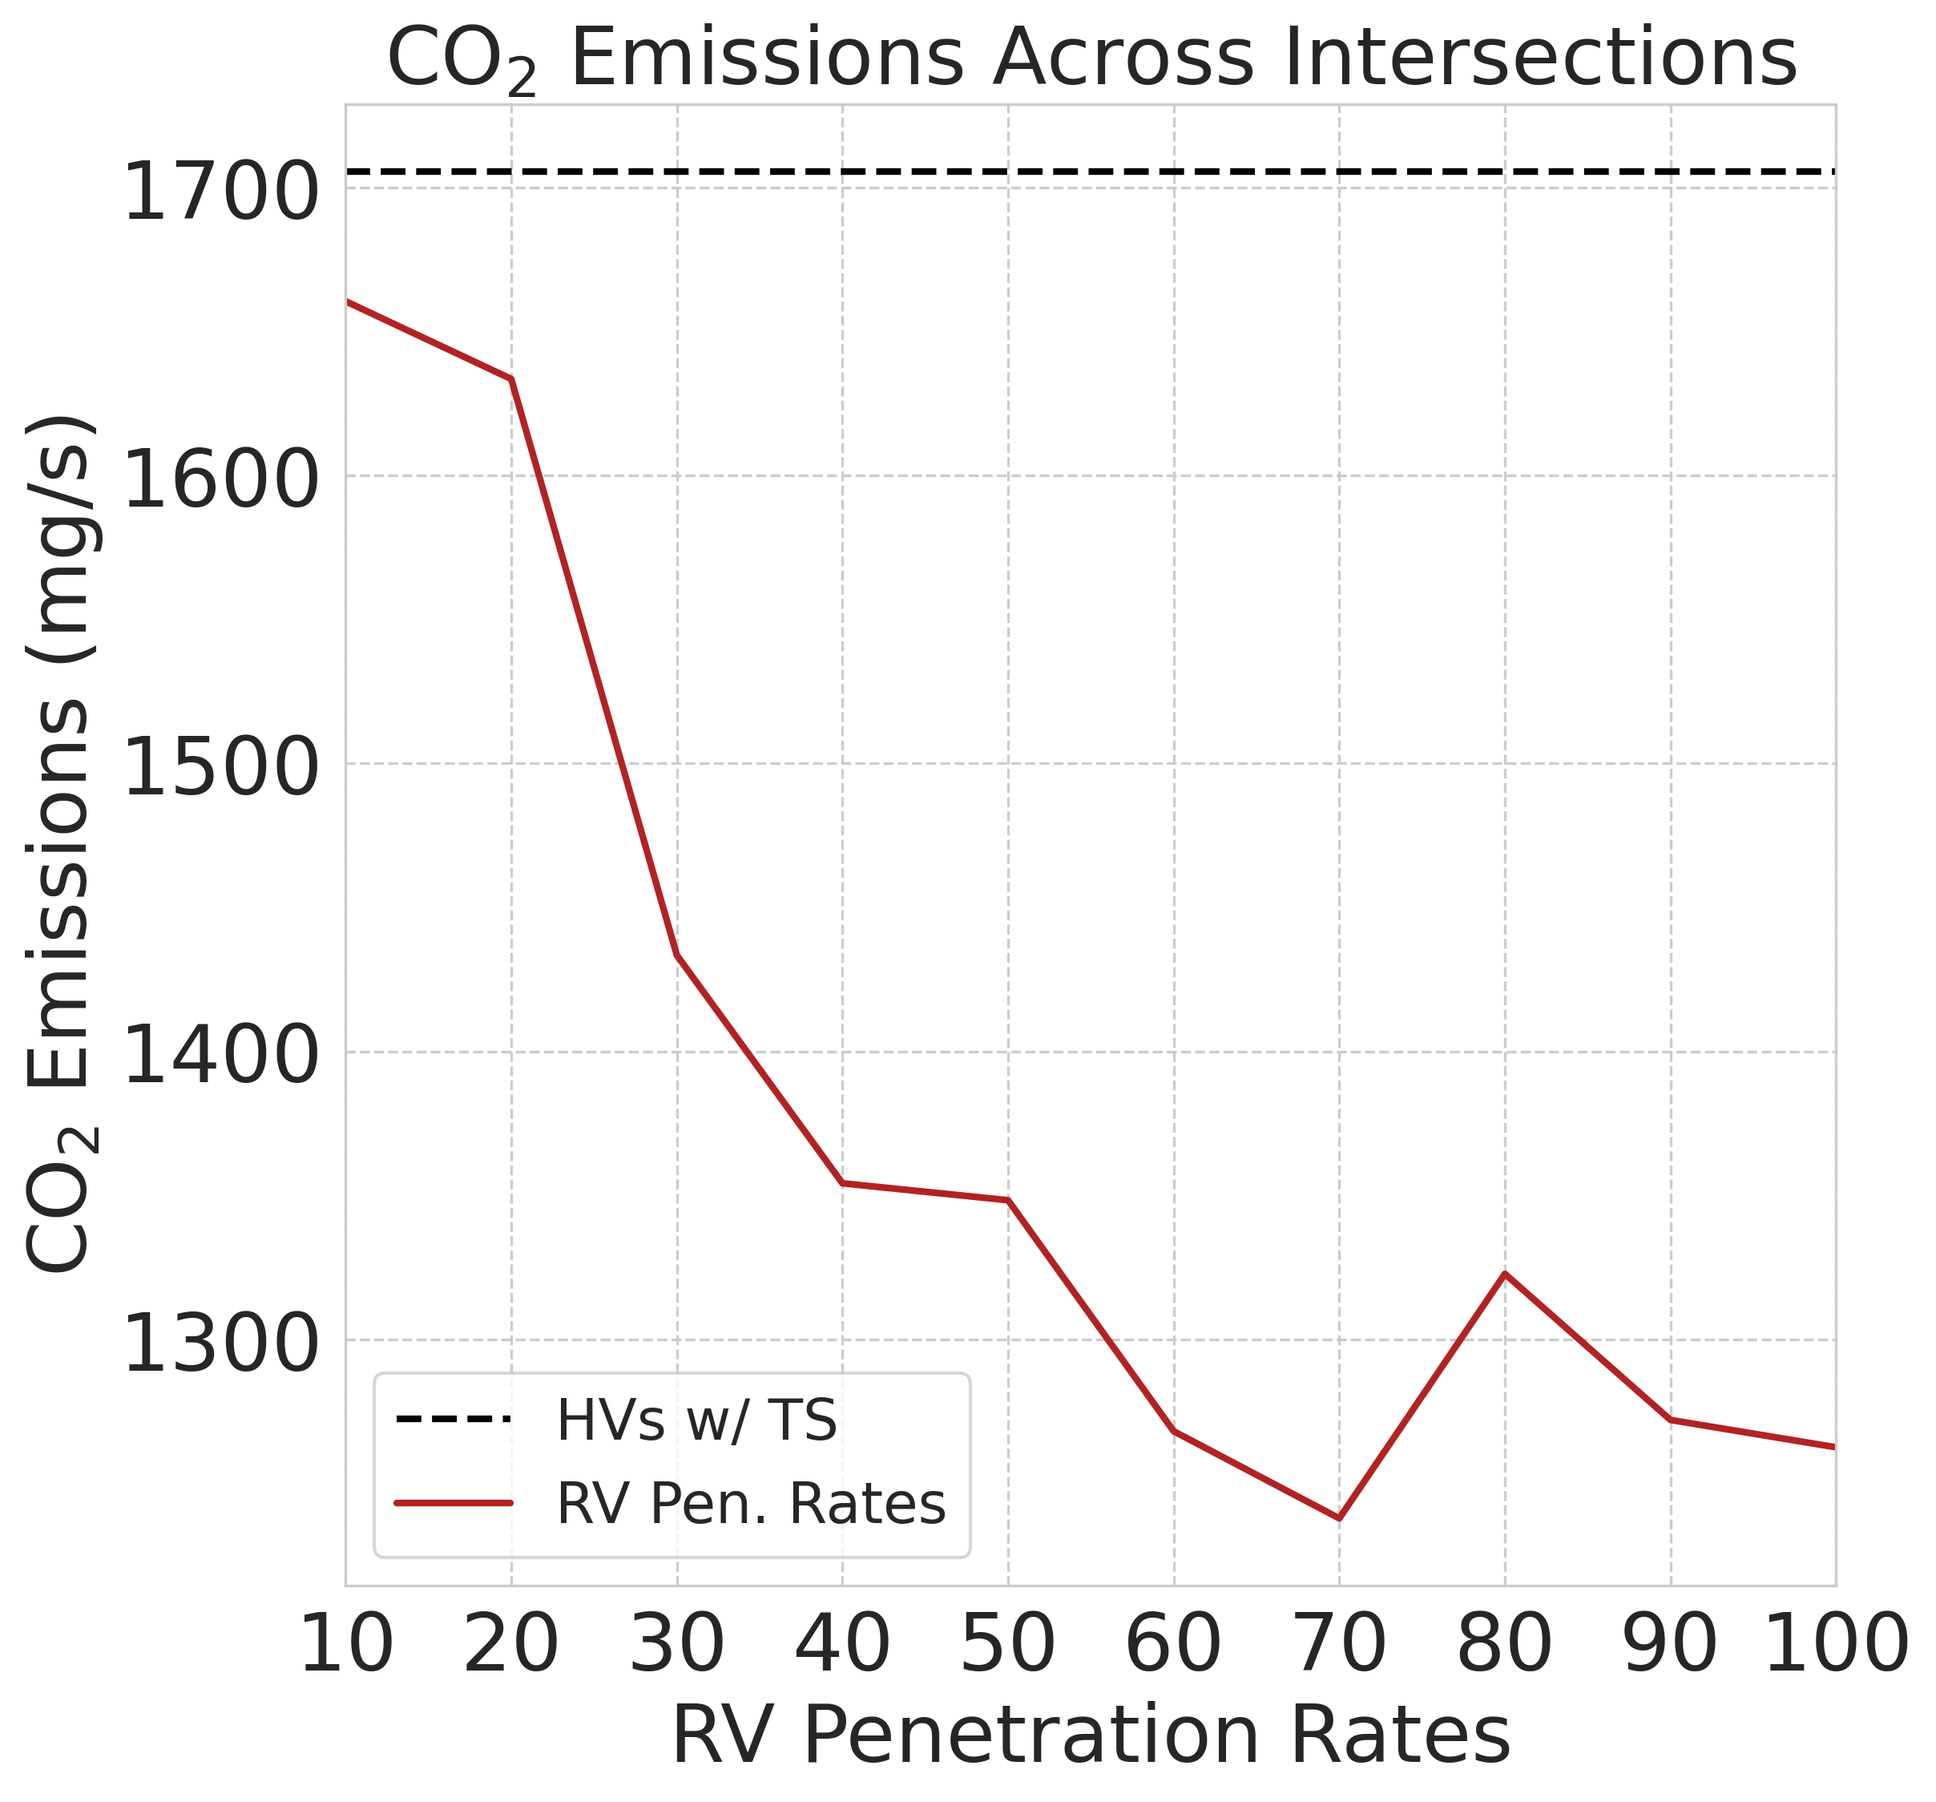
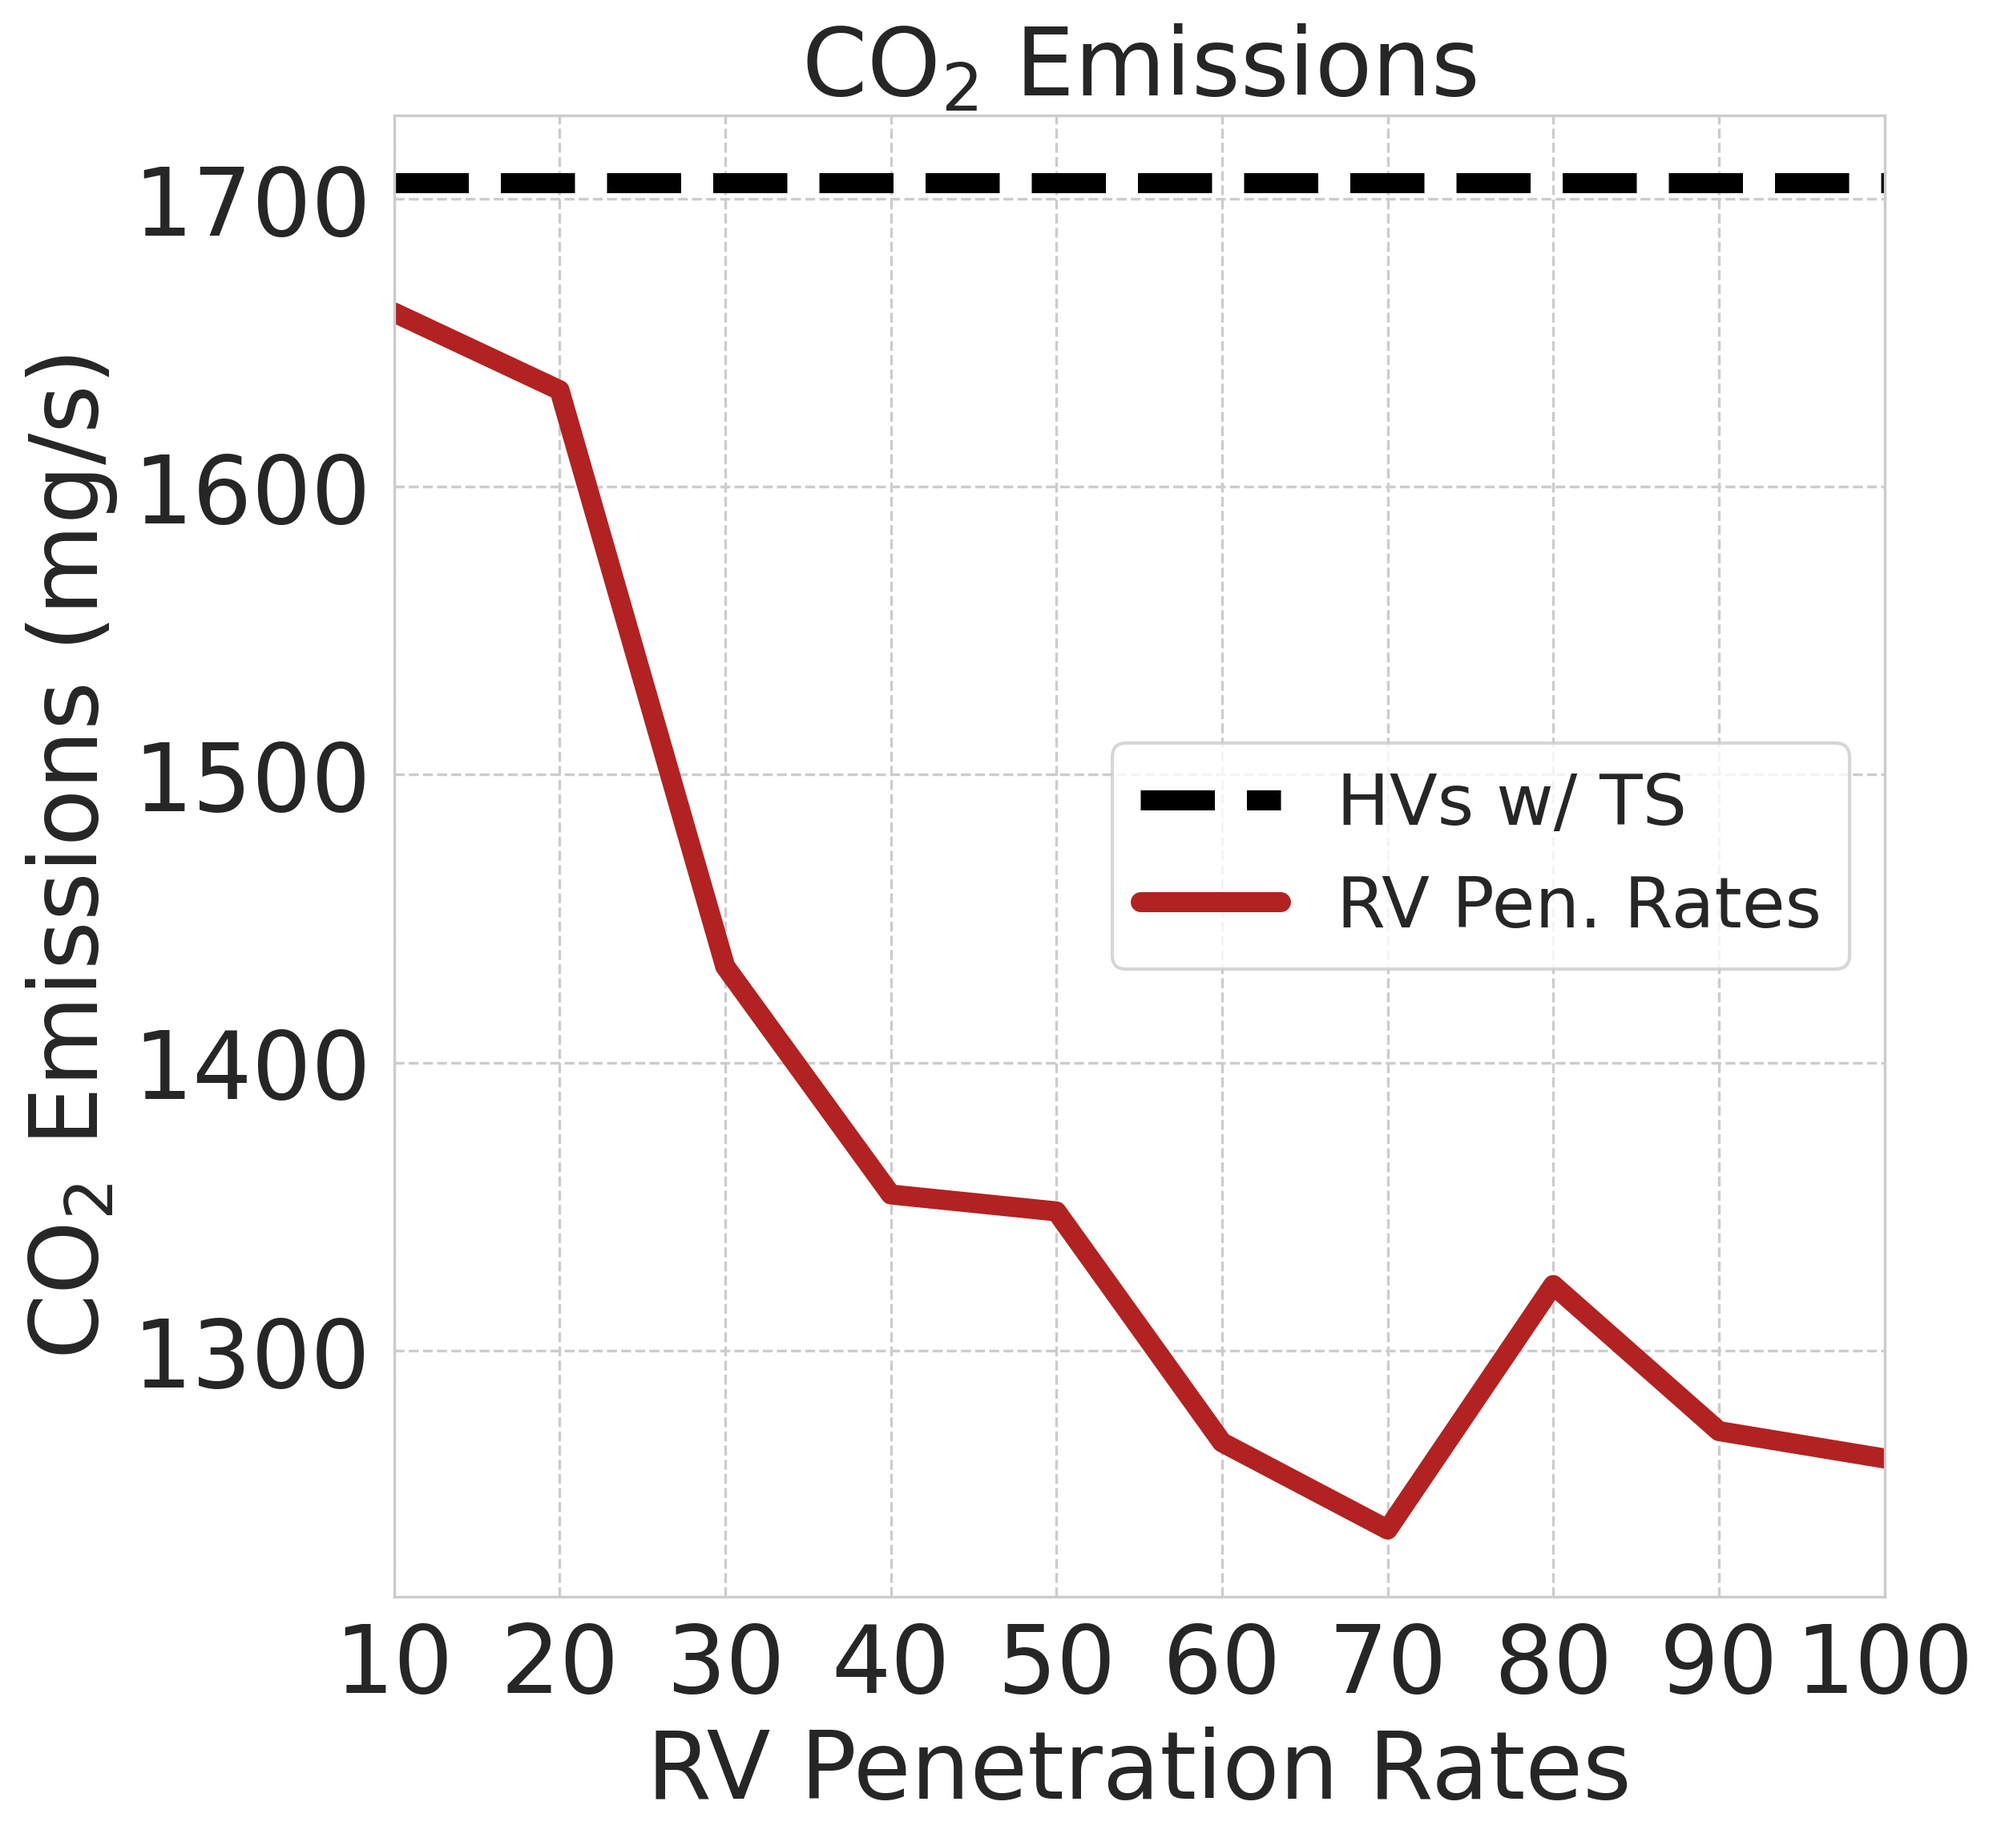
Updated emission figs

diff --git a/post_process/junc_results_plots.py b/post_process/junc_results_plots.py
@@ -22,7 +22,7 @@ def normalize_list(input_list):
 fig, ax = plt.subplots(figsize=(8,8), dpi=300)
 
 x = [10,20,30,40,50,60,70,80,90,100]
-fs = 24
+fs = 28
 
 # y = [59.36, 50.50, 38.62, 27.91, 22.04, 18.91, 20.77, 18.62, 14.45, 12.33]
 # ax.hlines(26.08, 10, 100, color="black", label="HVs w/ TS", linestyles="--", linewidth=2)
@@ -31,34 +31,36 @@ fs = 24
 # ax.set_ylabel("Wait Time (s)", fontsize=fs)
 
 # y = [0.7138, 0.7022, 0.6162, 0.5821, 0.5796, 0.5451, 0.5321, 0.5686, 0.5468, 0.5427]
-# ax.hlines(0.7332, 10, 100, color="black", label="HVs w/ TS", linestyles="--", linewidth=2)
-# ax.plot(x, y, color="slateblue", label="RV Pen. Rates", linewidth=2)
-# ax.set_title("Fuel Consumption Across Intersections", fontsize=fs)
+# ax.hlines(0.7332, 10, 100, color="black", label="HVs w/ TS", linestyles="--", linewidth=6)
+# ax.plot(x, y, color="slateblue", label="RV Pen. Rates", linewidth=6)
+# ax.set_title("Fuel Consumption", fontsize=fs)
 # ax.set_ylabel("Fuel Consumption (ml/s)", fontsize=fs)
+# ax.yaxis.set_major_formatter('{x:.2f}')
 
-y = [1660.53, 1633.54, 1433.41, 1354.196, 1348.32, 1268.10, 1237.83, 1322.75, 1272.009, 1262.508]
-ax.hlines(1705.53, 10, 100, color="black", label="HVs w/ TS", linestyles="--", linewidth=2)
-ax.plot(x, y, color="firebrick", label="RV Pen. Rates", linewidth=2)
-ax.set_title("CO$_2$ Emissions Across Intersections", fontsize=fs)
-ax.set_ylabel("CO$_2$ Emissions (mg/s)", fontsize=fs)
+# y = [1660.53, 1633.54, 1433.41, 1354.196, 1348.32, 1268.10, 1237.83, 1322.75, 1272.009, 1262.508]
+# ax.hlines(1705.53, 10, 100, color="black", label="HVs w/ TS", linestyles="--", linewidth=6)
+# ax.plot(x, y, color="firebrick", label="RV Pen. Rates", linewidth=6)
+# ax.set_title("CO$_2$ Emissions", fontsize=fs)
+# ax.set_ylabel("CO$_2$ Emissions (mg/s)", fontsize=fs)
 
 # y = [90.45, 86.33, 70.83, 63.00, 60.72, 53.65, 51.18, 56.72, 48.89, 47.60]
-# ax.hlines(83.76, 10, 100, color="black", label="HVs w/ TS", linestyles="--", linewidth=2)
-# ax.plot(x, y, color="lightcoral", label="RV Pen. Rates", linewidth=2)
-# ax.set_title("CO Emissions Across Intersections", fontsize=fs)
+# ax.hlines(83.76, 10, 100, color="black", label="HVs w/ TS", linestyles="--", linewidth=6)
+# ax.plot(x, y, color="lightcoral", label="RV Pen. Rates", linewidth=6)
+# ax.set_title("CO Emissions", fontsize=fs)
 # ax.set_ylabel("CO Emissions (mg/s)", fontsize=fs)
 
 # y = [0.4507, 0.4313, 0.3560, 0.3185, 0.3080, 0.2739, 0.2619, 0.2891, 0.2523, 0.2462]
-# ax.hlines(0.4212, 10, 100, color="black", label="HVs w/ TS", linestyles="--", linewidth=2)
-# ax.plot(x, y, color="darkorchid", label="RV Pen. Rates", linewidth=2)
-# ax.set_title("HC Emissions Across Intersections", fontsize=fs)
+# ax.hlines(0.4212, 10, 100, color="black", label="HVs w/ TS", linestyles="--", linewidth=6)
+# ax.plot(x, y, color="darkorchid", label="RV Pen. Rates", linewidth=6)
+# ax.set_title("HC Emissions", fontsize=fs)
 # ax.set_ylabel("HC Emissions (mg/s)", fontsize=fs)
+# ax.yaxis.set_major_formatter('{x:.2f}')
 
-# y = [0.7464, 0.7313, 0.6364, 0.5970, 0.5919, 0.5534, 0.5391, 0.5779, 0.5494, 0.5442]
-# ax.hlines(0.7535, 10, 100, color="black", label="HVs w/ TS", linestyles="--", linewidth=2)
-# ax.plot(x, y, color="darkorange", label="RV Pen. Rates", linewidth=2)
-# ax.set_title("NOx Emissions Across Intersections", fontsize=fs)
-# ax.set_ylabel("NOx Emissions (mg/s)", fontsize=fs)
+y = [0.7464, 0.7313, 0.6364, 0.5970, 0.5919, 0.5534, 0.5391, 0.5779, 0.5494, 0.5442]
+ax.hlines(0.7535, 10, 100, color="black", label="HVs w/ TS", linestyles="--", linewidth=6)
+ax.plot(x, y, color="darkorange", label="RV Pen. Rates", linewidth=6)
+ax.set_title("NOx Emissions", fontsize=fs)
+ax.set_ylabel("NOx Emissions (mg/s)", fontsize=fs)
 
 # y_fuel = [0.7138, 0.7022, 0.6162, 0.5821, 0.5796, 0.5451, 0.5321, 0.5686, 0.5468, 0.5427]
 # y_co = [90.45, 86.33, 70.83, 63.00, 60.72, 53.65, 51.18, 56.72, 48.89, 47.60, 83.76]
@@ -81,5 +83,5 @@ ax.set_xlim(10, 100)
 plt.xticks(fontsize=fs)
 plt.yticks(fontsize=fs)
 
-ax.legend(fontsize=fs-7, loc="lower left")
-plt.savefig('../img/co2_emissions.png', bbox_inches="tight")
+ax.legend(fontsize=fs-7, loc="center right")
+plt.savefig('../img/nox_emissions.png', bbox_inches="tight")
